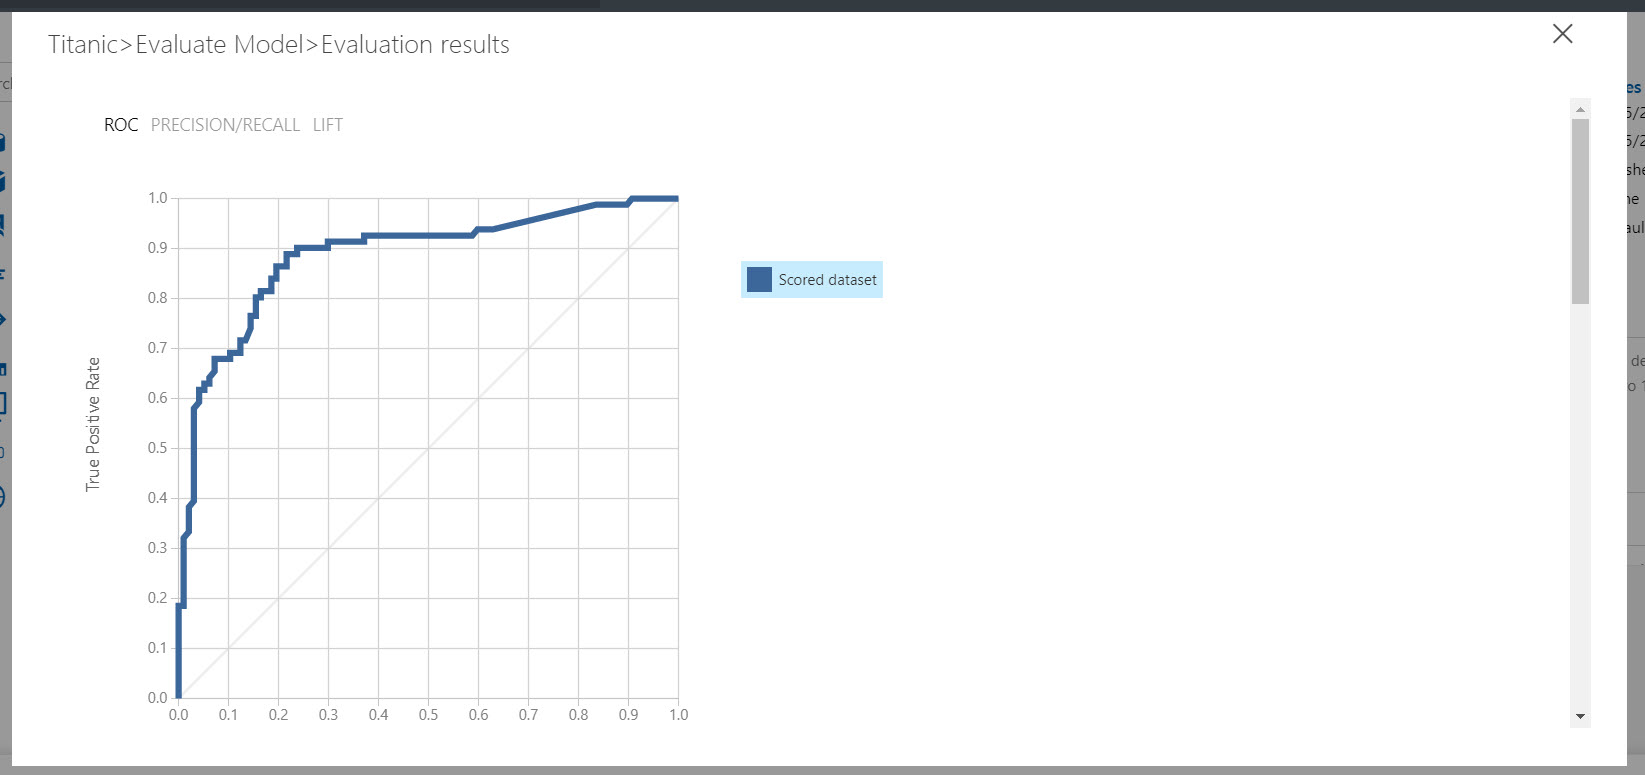
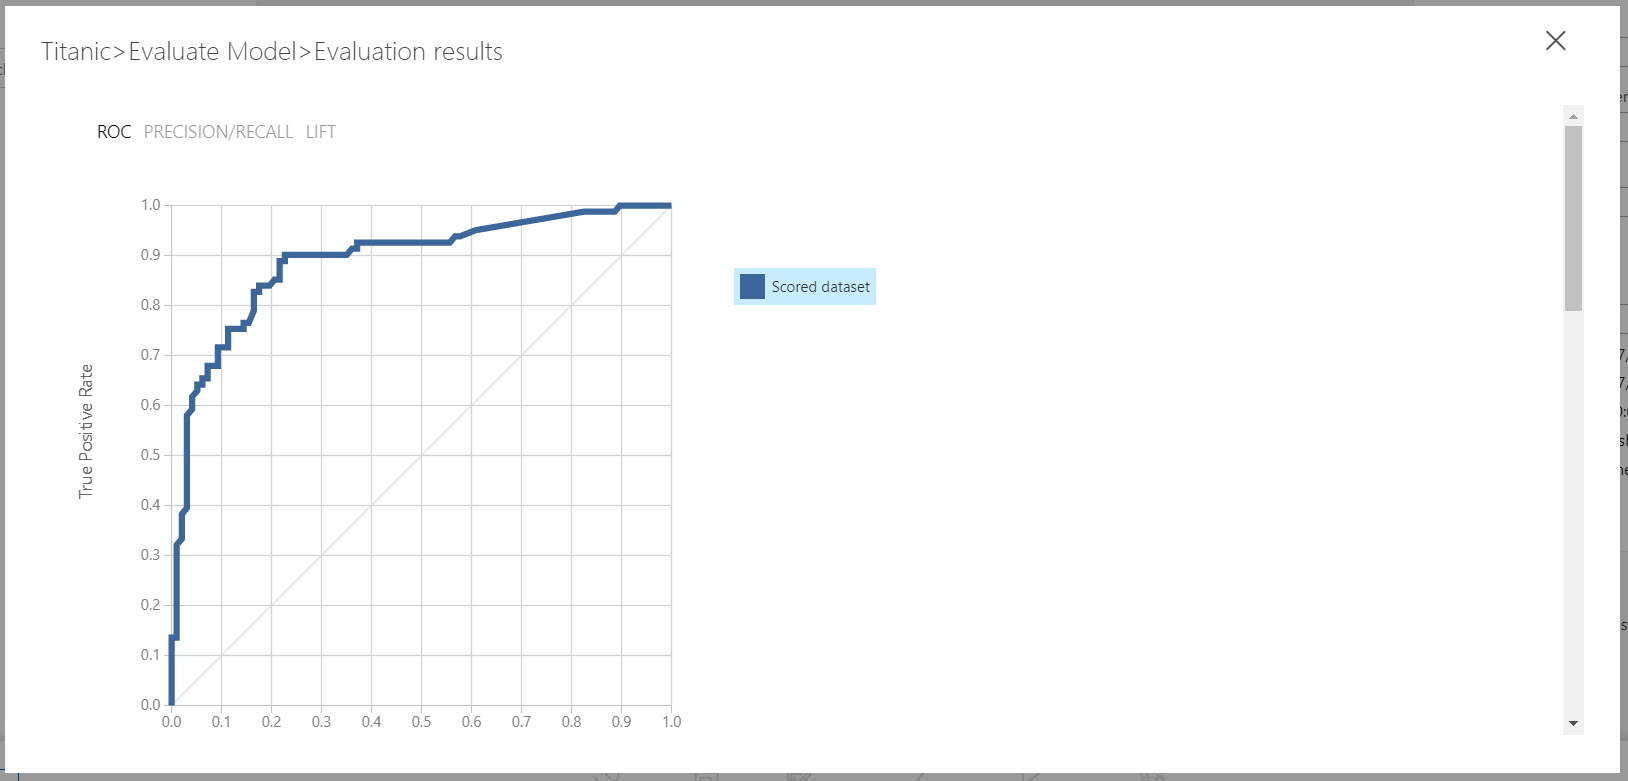
Update Wrong Images

diff --git a/05_evaluatemodel.md b/05_evaluatemodel.md
@@ -46,7 +46,7 @@
 まずは "**Accuracy**" と "**F1 Score**" に注目するとよいでしょう。どちらも **1 に近いほど** 優秀なモデルであることを意味します。"Accuracy" はモデルの "精度" を表します。"F1 Score" は総合的な "成績" を表します。  
 ![Visualize Evaluate Model 1](./images/05/evaluate_model_result2.jpg)  
 
-   > Accuracy が 0.775 なので、80% 程度は正しく予測できるモデルだと言えます。  
+   > Accuracy が 0.809 なので、80% 程度は正しく予測できるモデルだと言えます。  
    > モデルの用途によっては、"Precision" と "Recall" の値も気にかける必要があります。
 
 ここまでが **学習の一連の操作** です。  
@@ -79,14 +79,18 @@
 
 |モデルで使用したアルゴリズム|Accuracy|F1 Score|
 |---|---|---|
-|Two-Class Support Vector Machine|0.775|0.718|
-|Two-Class Neural Network|0.809|0.764|
+|Two-Class Support Vector Machine|0.809|0.764|
+|Two-Class Neural Network|0.803|0.752|
 
-"Two-Class Neural Network" を使ったモデルのほうが優秀であることが分かりました。
+今回の学習では "Two-Class Support Vector Machine" を使ったモデルのほうが優秀であることが分かりました。  
+スコアは必ずしも同じものにならないかもしれません。データ分割された結果などによっても変わりますが、大体 0.8 くらいの値になるはずです。
 
-> 数値だけの比較では Two-Class Neural Network が優秀だというだけで、常にこちらを使うべきということではありません。  
-> 目的や用途に応じて、Two-Class Vector Machine を使うほうが良い、または使ってもよいということはあります。
+> 数値だけの比較では Two-Class Support Vector Machine が優秀だというだけで、常にこちらを使うべきということではありません。  
+> 目的や用途に応じて、他のアルゴリズムを使うほうが良い、または使ってもよいということはあります。
 > 目的を満たすのであれば、必ずしもスコアが一番高いモデルである必要はありません。
+>
+> なお、特に深層学習の場合は、Neural Network のほうが良いスコアが出ることが多いですが、今回は過学習などの問題が発生している可能性があります。  
+> これについての考察は今回は省略します。
 
 ---
 
@@ -103,7 +107,8 @@
 4. [Run] で未実行のモジュールを実行します。  
 "Compute Target" ダイアログが表示されたら、[**Select existing**] をクリックして、作成済みの Compute Target を選択して [Run] をクリックします。
 5. 最後に置いた [Evaluate Model] の出力ノードを右クリックして [Visualize] を選択します。  
-二つのモデルの ROC 曲線が表示されます。部分的に逆転している箇所がありますが、**右側の入力ノード** (あとで作った Two-Class Neural Network から接続されたもの) のほうがグラフが上になっているのが分かります。
+二つのモデルの ROC 曲線が表示されます。部分的に逆転している箇所がありますが、あまり差異が分かりません。  
+一般には、Accuracy, F1 Score, ROC 曲線などを見て良いモデルを決めます。今回は ROC 曲線では分かりづらいので、Accuracy, F1 Score でより高い数値を出した "**Two-Class Support Vector Machine**" の予測モデルをデプロイすることにします。
 ![Visualize Two Models Result](./images/05/evaluate_roc_for_two_models.jpg)
 
 ---

diff --git a/07_requestservice.md b/07_requestservice.md
@@ -1,3 +1,25 @@
 # 発行したサービスを利用する
 
-(準備中)
+[前のステップ](./06_deploymodel.md) で、予測モデルをクラウドに発行しました。
+
+ここからは、発行した Web サービスを呼び出してみます。  
+発行したサービスは REST API に対応しているので、多くの言語や環境から呼び出せます。
+
+ここでは、以下のツールから呼び出してみます。
+
+- Azure Machine Learning Web Services ポータル
+- Postman
+
+---
+
+## Azure Machine Learning Web Services ポータルからリクエスト
+
+最初に Web サービスの動作確認を兼ねて、**Azure Machine Learning Web Services** ポータルからリクエストします。
+
+1. 前のステップ から続けて操作している場合は、Machine Learning Studio の **Web Service** 画面が表示されているはずです。  
+ここで、[**Test**] をクリックします。  
+![Test Menu](./images/07/test_menu_on_ws_portal.jpg)
+
+   > 一度 Machine Learning サービスワークスペースを閉じていた場合などは、Visual interface の [**Web Services**] メニューを選択して、 "Titanic [Predict Exp.]" をクリックすると、上の画面に遷移できます。
+   > ![Visual interface Web Services Menu](./images/06/web_services_list.jpg)
+2. aaa

diff --git a/03_dataformat.md b/03_dataformat.md
@@ -39,7 +39,6 @@ Age が空のデータを削除するやり方もありますが、今回は Age
 
    - Survived
    - Pclass
-   - Name
    - Sex
    - Age
    - SibSp
@@ -76,10 +75,10 @@ Age と Survived との間には相関はありそうですが、他の列に比
 ![Run for Clean Missing Value](./images/03/run_for_clean_missing_data.jpg)
 9. 実行が終了したら、"Clean Missing Data" モジュールの **左側の出力ノード** で右クリックして、[**Visualize**] をクリックします。
 ![Visualize Clean Missing Data](./images/03/visualize_clean_missing_data.jpg)
-10. 結果画面で、以下の内容を確認します。  
+10. 結果画面で、以下の内容を確認します。
 
    - 行数は 891行のままで、元データから変更がないこと
-   - 列は 8列になっていること
+   - 列は 7列になっていること
    - "Age" 列のヘッダーをクリックし、"Missing Value" が 0 になっていること
    - "Age" 列に、平均値である "29.699118" が入っている行が見つかること
 
